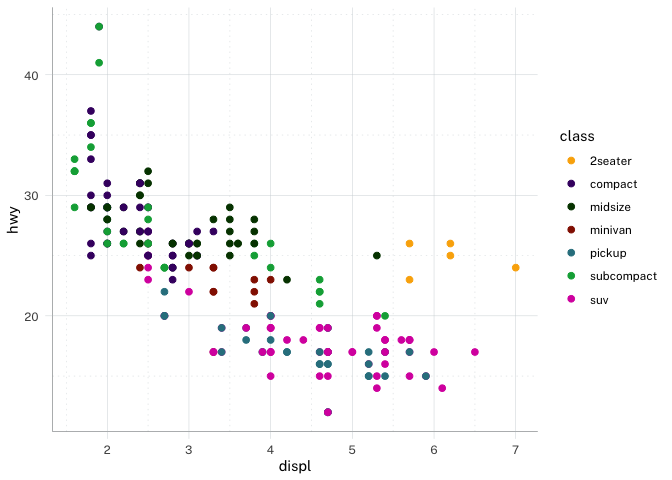
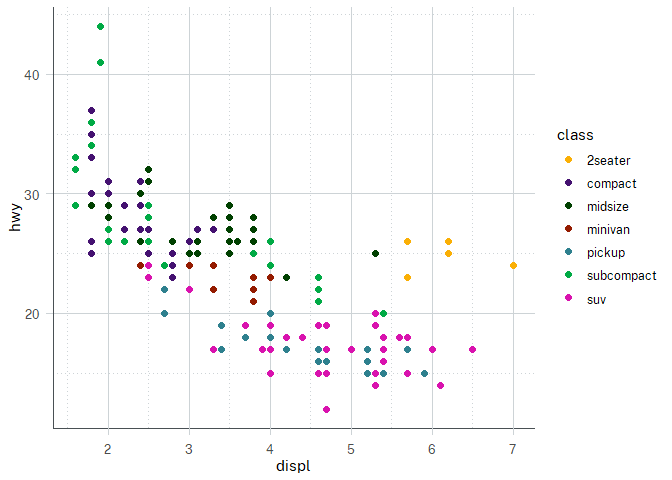
Address pkgdown vignette issues

diff --git a/README.md b/README.md
@@ -5,7 +5,7 @@
 
 <!-- badges: start -->
 
-[![R-CMD-check](https://github.com/digitalnsw/nsw-r-visualisations/actions/workflows/R-CMD-check.yaml/badge.svg)](https://github.com/digitalnsw/nsw-r-visualisations/actions/workflows/R-CMD-check.yaml)
+[![R-CMD-check](https://github.com/digitalnsw/nswtheme/actions/workflows/R-CMD-check.yaml/badge.svg)](https://github.com/digitalnsw/nswtheme/actions/workflows/R-CMD-check.yaml)
 <!-- badges: end -->
 
 The goal of `nswtheme` is to provide a R tool kit for styles, patterns
@@ -22,7 +22,7 @@ You can install nswtheme like so:
 
 # development version
 install.packages('pak')
-pak::pak('digitalnsw/nsw-r-visualisations')
+pak::pak('digitalnsw/nswtheme')
 ```
 
 ## Usage
